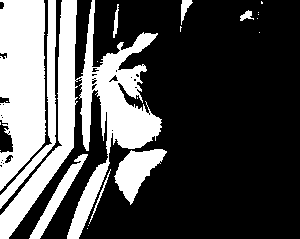
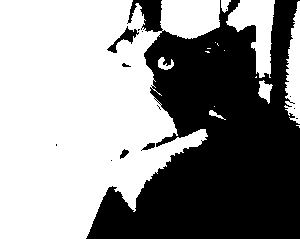
Changes images to newer versions, edits image sizes for week 3

diff --git a/index.html b/index.html
@@ -111,50 +111,46 @@
         <h2 style="text-align: center; color:grey;">All images can be opened for better viewing if desired.</h2>
         <h2 style="text-align: center;">Part 1 - Thresholding</h2>
         <a href="img/week-3/oreo.png">
-            <img src="img/week-3/oreo.png" style="width: 100%; margin-left:auto; margin-right:auto; display: block;"/>
+            <img src="img/week-3/oreo.png" style="max-width: 100%; margin-left:auto; margin-right:auto; display: block;"/>
         </a>
-        <p style="padding:1em;">
-        The first image has a subjective "best" threshold value depending on what features of Oreo we want to focus on. I ended up landing on a value of <b>163</b> to produce this image that
-        accentuates Oreo's whisters and still retains the information of the background of the image (the window). The alternative is we could have adjusted the threshold value so the darker parts of
-        Oreo were more discernable, but again that is subject to the viewers liking.</p>
+        <p style="padding:1em; text-align: center;">
+        The first image has a subjective "best" threshold value depending on what features of Oreo we want to focus on. I ended up landing on a value of <b>85</b> to produce this image that
+        accentuates Oreo's features. The alternative is we could have adjusted the threshold value so the lighter parts of Oreo and the window were more discernable, but again that is subject to the viewers liking.</p>
         <a href="img/week-3/image.gif">
-            <img src="img/week-3/image.gif" style="width: 100%; margin-left:auto; margin-right:auto; display: block;"/>
+            <img src="img/week-3/image.gif" style="max-width: 100%; margin-left:auto; margin-right:auto; display: block;"/>
         </a>
-        <p style="padding:1em;">Unlike the first image, this seemingly black box has a very objective best threshold value (unless your goal is to ignore the information in the picture) and that value is <b>1</b>. Why? Because
+        <p style="padding:1em; text-align: center;">Unlike the first image, this seemingly black box has a very objective best threshold value (unless your goal is to ignore the information in the picture) and that value is <b>1</b>. Why? Because
         for any other value the text is not visible. </p>
 
         <h2 style="text-align: center;">Part 2 - Thresholding</h2>
         <a href="img/week-3/barbotan-115.jpg">
-            <img src="img/week-3/barbotan-115.jpg" style="width: 100%; margin-left:auto; margin-right:auto; display: block;"/>
+            <img src="img/week-3/barbotan-115.jpg" style="max-width: 100%; margin-left:auto; margin-right:auto; display: block;"/>
         </a>
-        <p style="padding:1em;">This thresholded image is the result of applying a threshold value of 115 to the image. I chose this value because it offers a balance of clarity, and removal of the background. I would
+        <p style="padding:1em; text-align: center;">This thresholded image is the result of applying a threshold value of 115 to the image. I chose this value because it offers a balance of clarity, and removal of the background. I would
         argue that there is no single "best" threshold value, as applying more of a threshold value would result in the text starting to disappear, becoming harder to read, and applying less would
         make the background (folds in the paper) more visible. There's a trade off between clarity and quality that is subject to the viewers liking.</p>
 
         <h2 style="text-align: center;">Part 3 - Color Intensity</h2>
         <a href="img/week-3/Boxes-color.png">
-            <img src="img/week-3/Boxes-color.png" style="width: 100%; margin-left:auto; margin-right:auto; display: block;"/>
+            <img src="img/week-3/Boxes-color.png" style="max-width: 100%; margin-left:auto; margin-right:auto; display: block;"/>
         </a>
         <a href="img/week-3/Boxes-grey.png">
-            <img src="img/week-3/Boxes-grey.png" style="width: 100%; margin-left:auto; margin-right:auto; display: block;"/>
+            <img src="img/week-3/Boxes-grey.png" style="max-width: 100%; margin-left:auto; margin-right:auto; display: block;"/>
         </a>
-        <p style="padding:1em">The above image was constructed by picking colors with the same intensity/lightness value. The image below is after applying a Image > Mode > Greyscale in photoshop. As we can see, because of the similar light
+        <p style="padding:1em; text-align: center;">The above image was constructed by picking colors with the same intensity/lightness value. The image below is after applying a Image > Mode > Greyscale in photoshop. As we can see, because of the similar light
         intensity values, when converted to grey values the circles disappear as the colors are treated as the same.</p>
 
         <h2 style="text-align: center;">Part 4 - Sharpening</h2>
         <a href="img/week-3/sheet_music.jpg">
-            <img src="img/week-3/sheet_music.jpg" style="width: 98%; text-align: center; padding:1% ;margin-left:auto; margin-right:auto; display: inline-block;"/>
-        </a>
-        <a href="img/week-3/sheet_music-single.jpg">
-            <img src="img/week-3/sheet_music-single.jpg" style="width: 98%; padding:1%; margin-left:auto; margin-right:auto; display: inline-block;"/>
+            <img src="img/week-3/sheet_music.jpg" style="width: 47%; text-align: center; padding:1% ;margin-left:auto; margin-right:auto; display: inline-block;"/>
         </a>
         <a href="img/week-3/sheet_music-extra-sharpened.jpg">
-            <img src="img/week-3/sheet_music-extra-sharpened.jpg" style="width: 98%; padding:1%; margin-left:auto; margin-right:auto; display: inline-block;"/>
+            <img src="img/week-3/sheet_music-sharpened.jpg" style="width: 47%; padding:1%; margin-left:auto; margin-right:auto; display: inline-block;"/>
         </a>
-        <p style="padding:1em;">I included 3 images above so it is easier to contrast the difference that sharpening the image makes. The first is the original, the second is a single pass of sharpening, and the third is after several passes.
+        <p style="padding:1em; text-align: center;">I included 2 images above so it is easier to contrast the difference that sharpening the image makes. The first is the original, the second is after doing a smart sharpen on the image.
         What we can see vs. the original is that the discolored pixels
-        as a result of the jpg encoding become less apparent, and the white space between the bars on the sheet music become clearer, as well as the lines becoming more defined. But with more and more passes with start to lose
-        quality, as the black pixels from the bars on the sheet music start to disappear, resulting in a spotty image and lower image quality overall.</p>
+        as a result of the jpg encoding become less apparent, and the white space between the bars on the sheet music become clearer, as well as the lines becoming darker and more defined. But with more and more passes with start to lose
+        quality, as the black pixels from the bars on the sheet music start to disappear, and imperfections on the sheet start to show more, resulting in a spotty image and lower image quality overall.</p>
     </div>
 </div>
 
